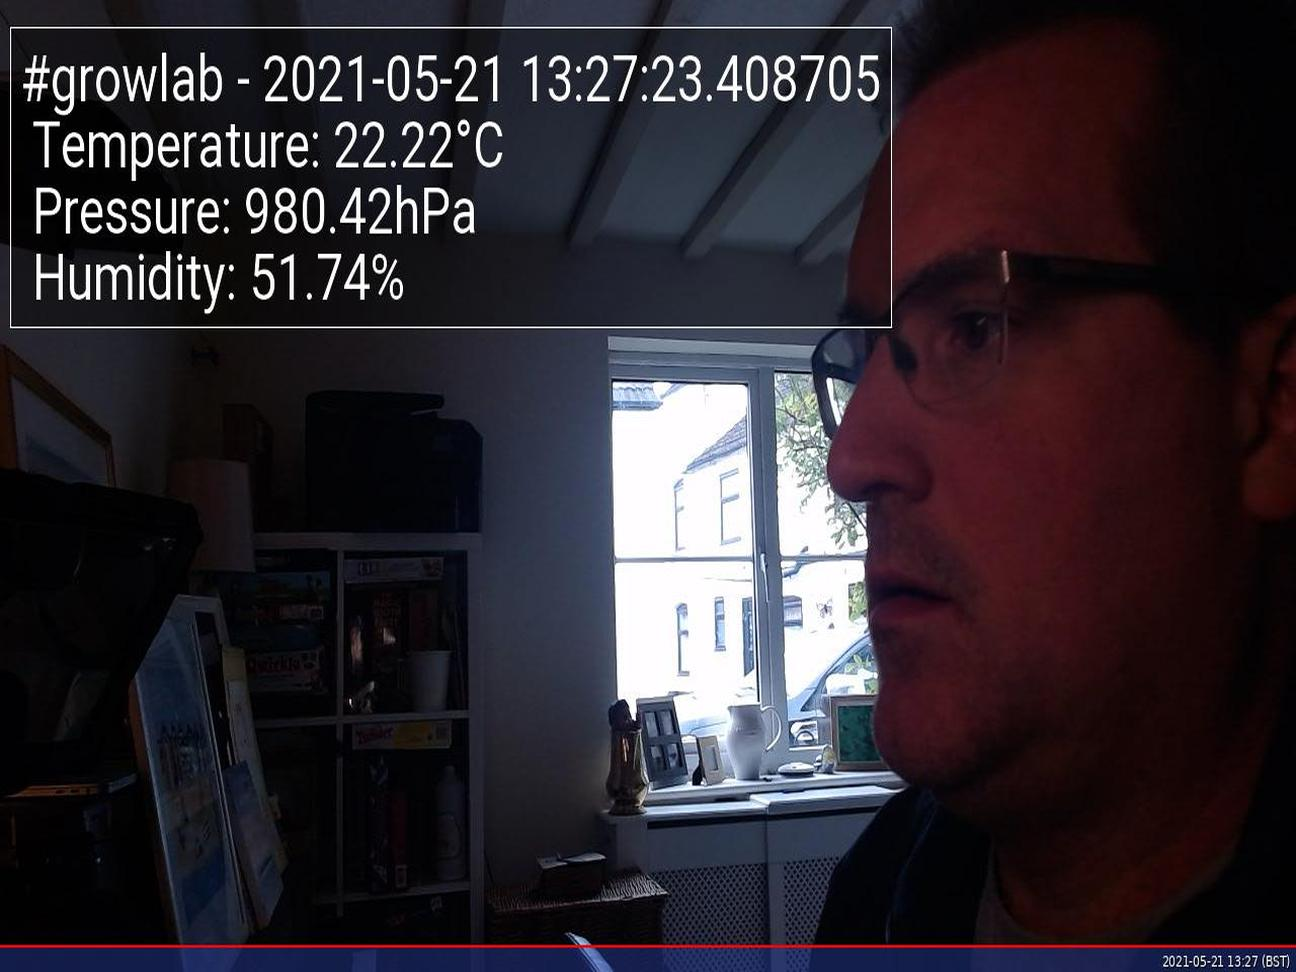
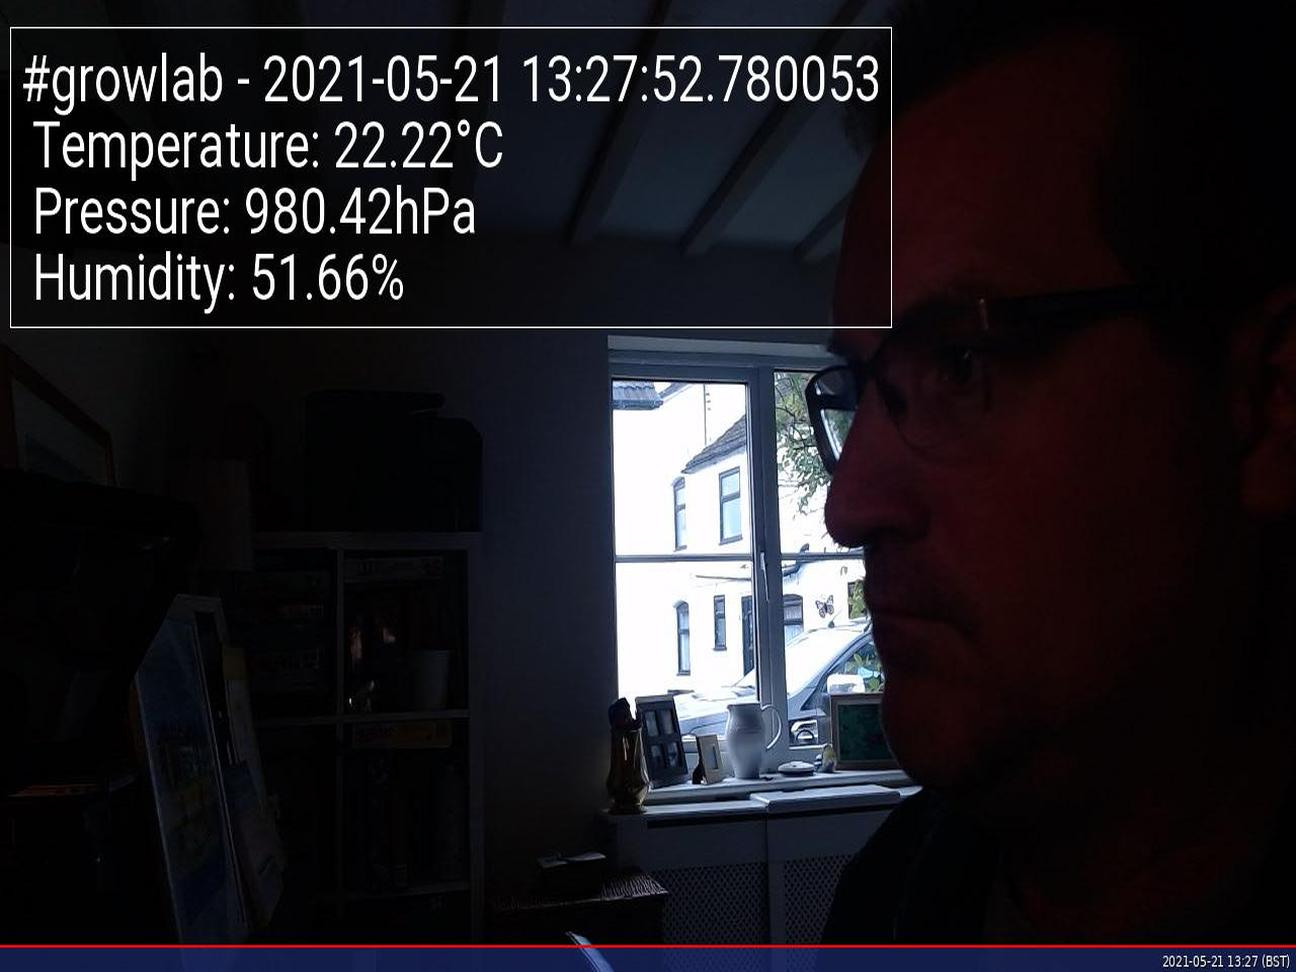
Update images at Fri 21 May 13:27:56 BST 2021

diff --git a/app/growlab-live/docs/index.html b/app/growlab-live/docs/index.html
@@ -47,7 +47,7 @@
                         <tbody>
                             <tr>
                                 <td>Time</td>
-                                <td>2021-05-21 13:27:23.408705</td>
+                                <td>2021-05-21 13:27:52.780053</td>
                             </tr>
                             <tr>
                                 <td>Temperature</td>
@@ -55,7 +55,7 @@
                             </tr>
                             <tr>
                                 <td>Humidity</td>
-                                <td>51.74%</td>
+                                <td>51.66%</td>
                             </tr>
                             <tr>
                                 <td>Pressure</td>
@@ -67,7 +67,7 @@
 
                 <h5>Latest image</h5>
                 <div style="width: 85%;">
-                            <img class="figure-img img-fluid rounded" src="./preview.jpg?uid=1621600047.1969426">
+                            <img class="figure-img img-fluid rounded" src="./preview.jpg?uid=1621600076.5278623">
                 </div>
             </div>
         </div>
